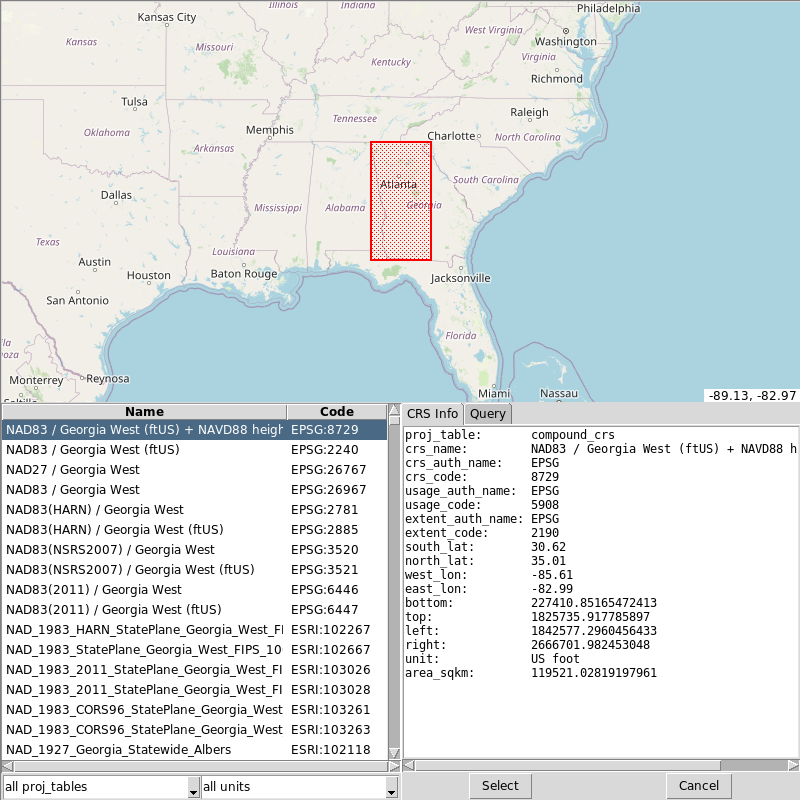
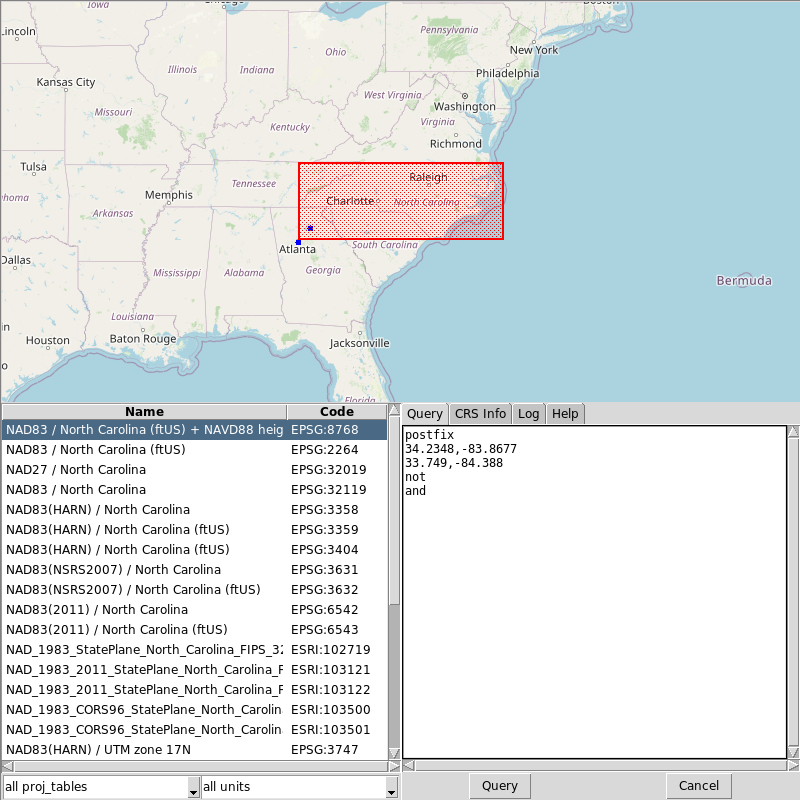
g.projpicker: Update GUI screenshot (#595)

diff --git a/src/general/g.projpicker/g.projpicker.html b/src/general/g.projpicker/g.projpicker.html
@@ -529,7 +529,7 @@ EOT
 
 Start the GUI for selecting projections using the <b>-g</b> flag:
 <div class="code"><pre>
-g.projpicker -g query=34.2348,-83.8677
+g.projpicker -g query="postfix 34.2348,-83.8677 33.749,-84.388 not and"
 </pre></div>
 
 <div align="center">
